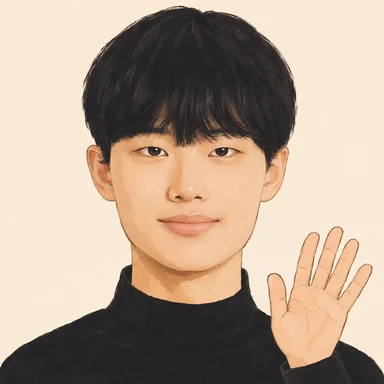
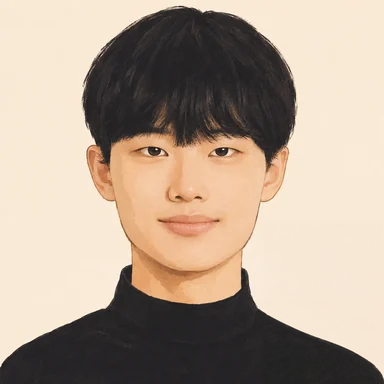
Remove the raised hand from the chatbot portrait

Changed region(s): [[0.6875, 0.5938, 0.9688, 1.0], [0.9688, 0.9375, 1.0, 1.0]]

diff --git a/docs/AI_HANDOFF.md b/docs/AI_HANDOFF.md
@@ -20,7 +20,7 @@
 
 ## 진용의 아바타와 대화
 
-- 펼친 대화창에서는 사진을 본떠 만든 [아바타](../src/assets/jinyong-avatar.webp)가 손을 들고 “반가워요, 정진용입니다”라고 인사한다. 실제 본인과 AI 아바타의 구분은 안내문에 둔다. 데스크톱에서는 옆에 보이는 패널을 접을 수 있고, 모바일에서는 글자 없는 용 아이콘으로 열고 닫는다.
+- 펼친 대화창에는 사진을 본떠 만든 정면 [아바타 초상](../src/assets/jinyong-avatar.webp)과 “반가워요, 정진용입니다”라는 인사말이 보인다. 실제 본인과 AI 아바타의 구분은 안내문에 둔다. 데스크톱에서는 옆에 보이는 패널을 접을 수 있고, 모바일에서는 글자 없는 용 아이콘으로 열고 닫는다.
 - 방문자의 Chrome에서 wllama와 WebGPU로 HF의 `wlsdyd5373/jjmethod`에 있는 브라우저용 GGUF(Q4_K_M)를 실행한다. 기존 말투 LoRA의 가중치 변화를 0.12배로 적용했다. 질문은 브라우저 안에서 처리한다. 일상 대화와 일반 지식 질문은 최근 대화만 사용한다. 이력·특정 프로젝트·현재 글에 관한 질문과 이어지는 질문에 공개 자료를 참조한다.
 - 지원 기기는 사이트 진입부터 모델을 자동으로 준비한다. 방문자에게 다운로드 여부를 고르게 하거나 “약 1GB의 모델을 받는 동안…” 안내를 다시 넣지 않는다. 모델은 탭 메모리에 두고 내부 메뉴 이동에서는 대화를 이어 간다. 탭 종료·새로고침·외부 이동으로 문서를 떠날 때 실행 자원을 해제한다. 준비 중이거나 WebGPU가 없는 기기에서도 공개 기록으로 즉시 답할 수 있어야 한다.
 - 생성 답변은 첫 텍스트부터 스트리밍한다. 인사와 공개 이력은 모델 준비 전후에 같은 답을 준다. 최근 논문은 개별 제목·저자 역할·발행 상태로, 최근 프로젝트는 공개 아카이브의 날짜와 작업 내용으로 답한다. 저장소 업데이트일과 프로젝트 수행일을 구분한다. 채용 이유·강점·단점에는 [페르소나 기록](../src/config/persona.ts)의 1인칭 답변을 사용한다.
